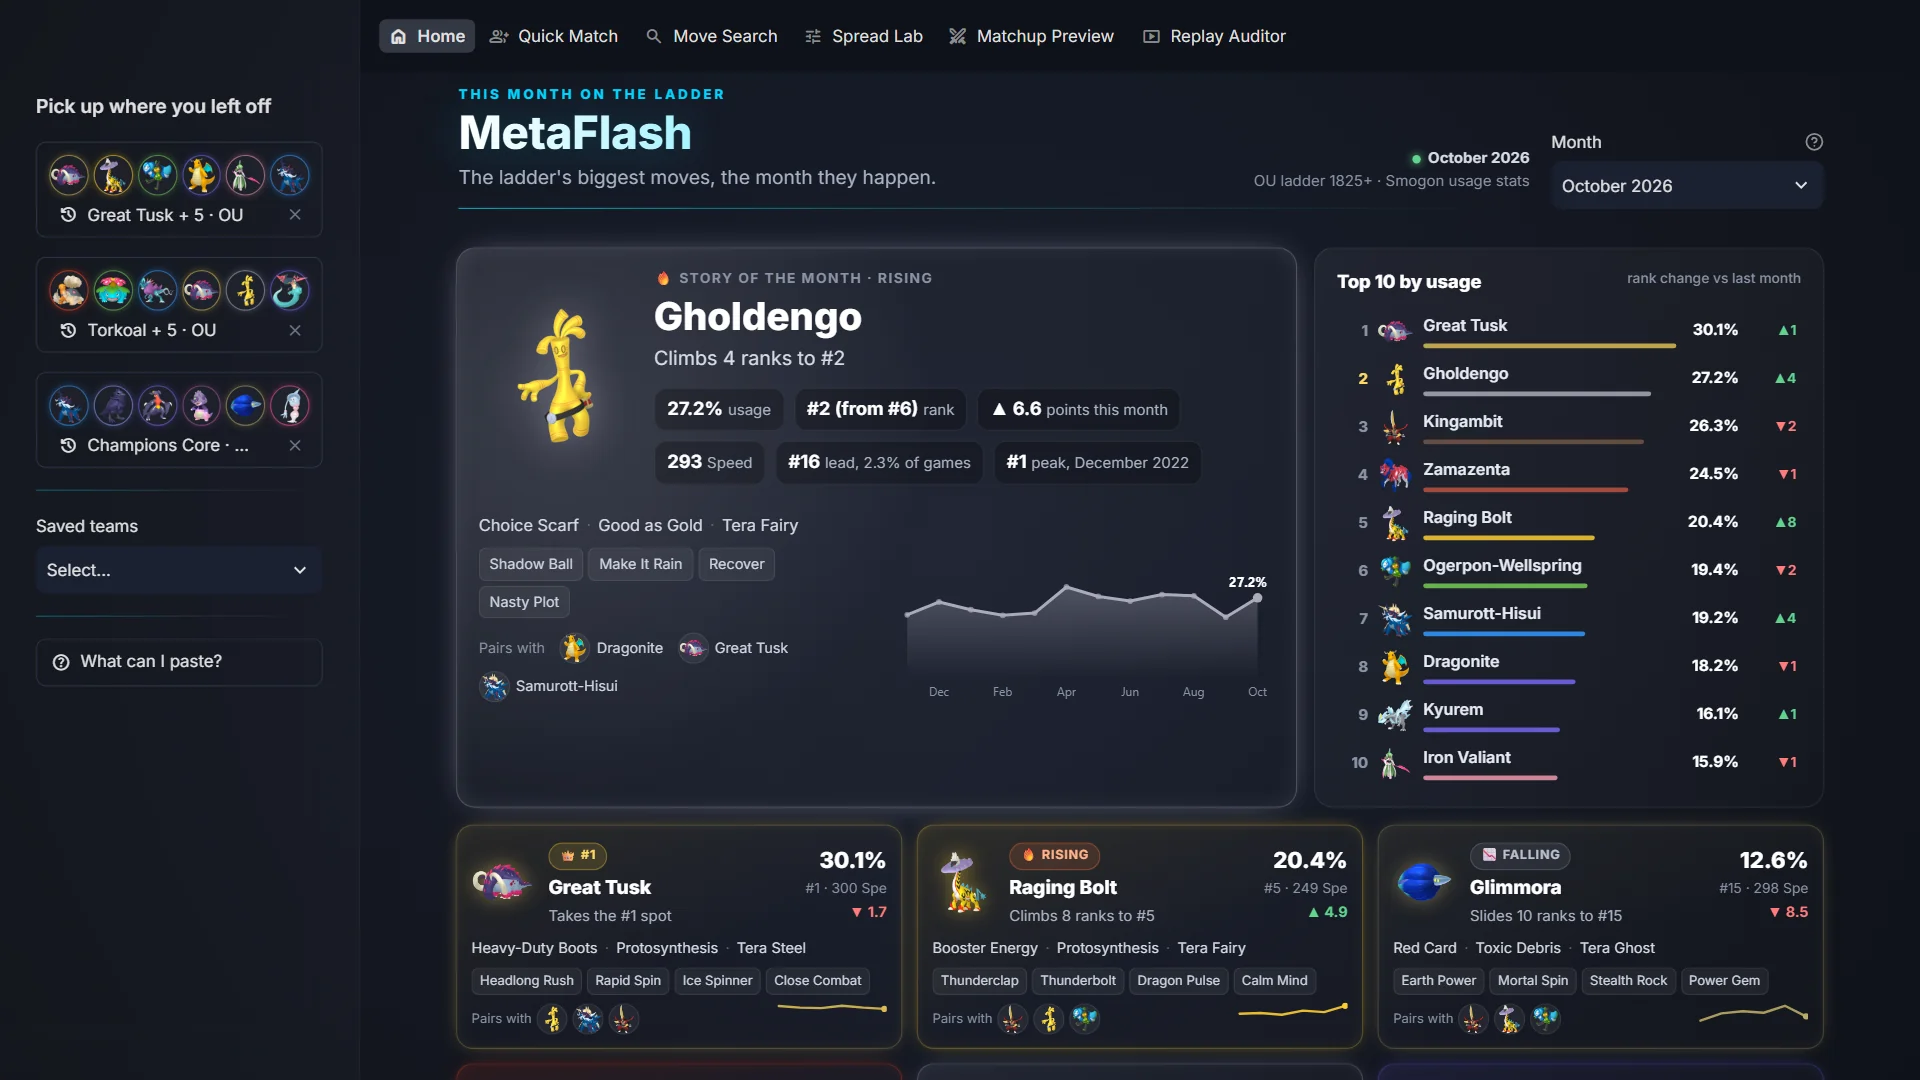
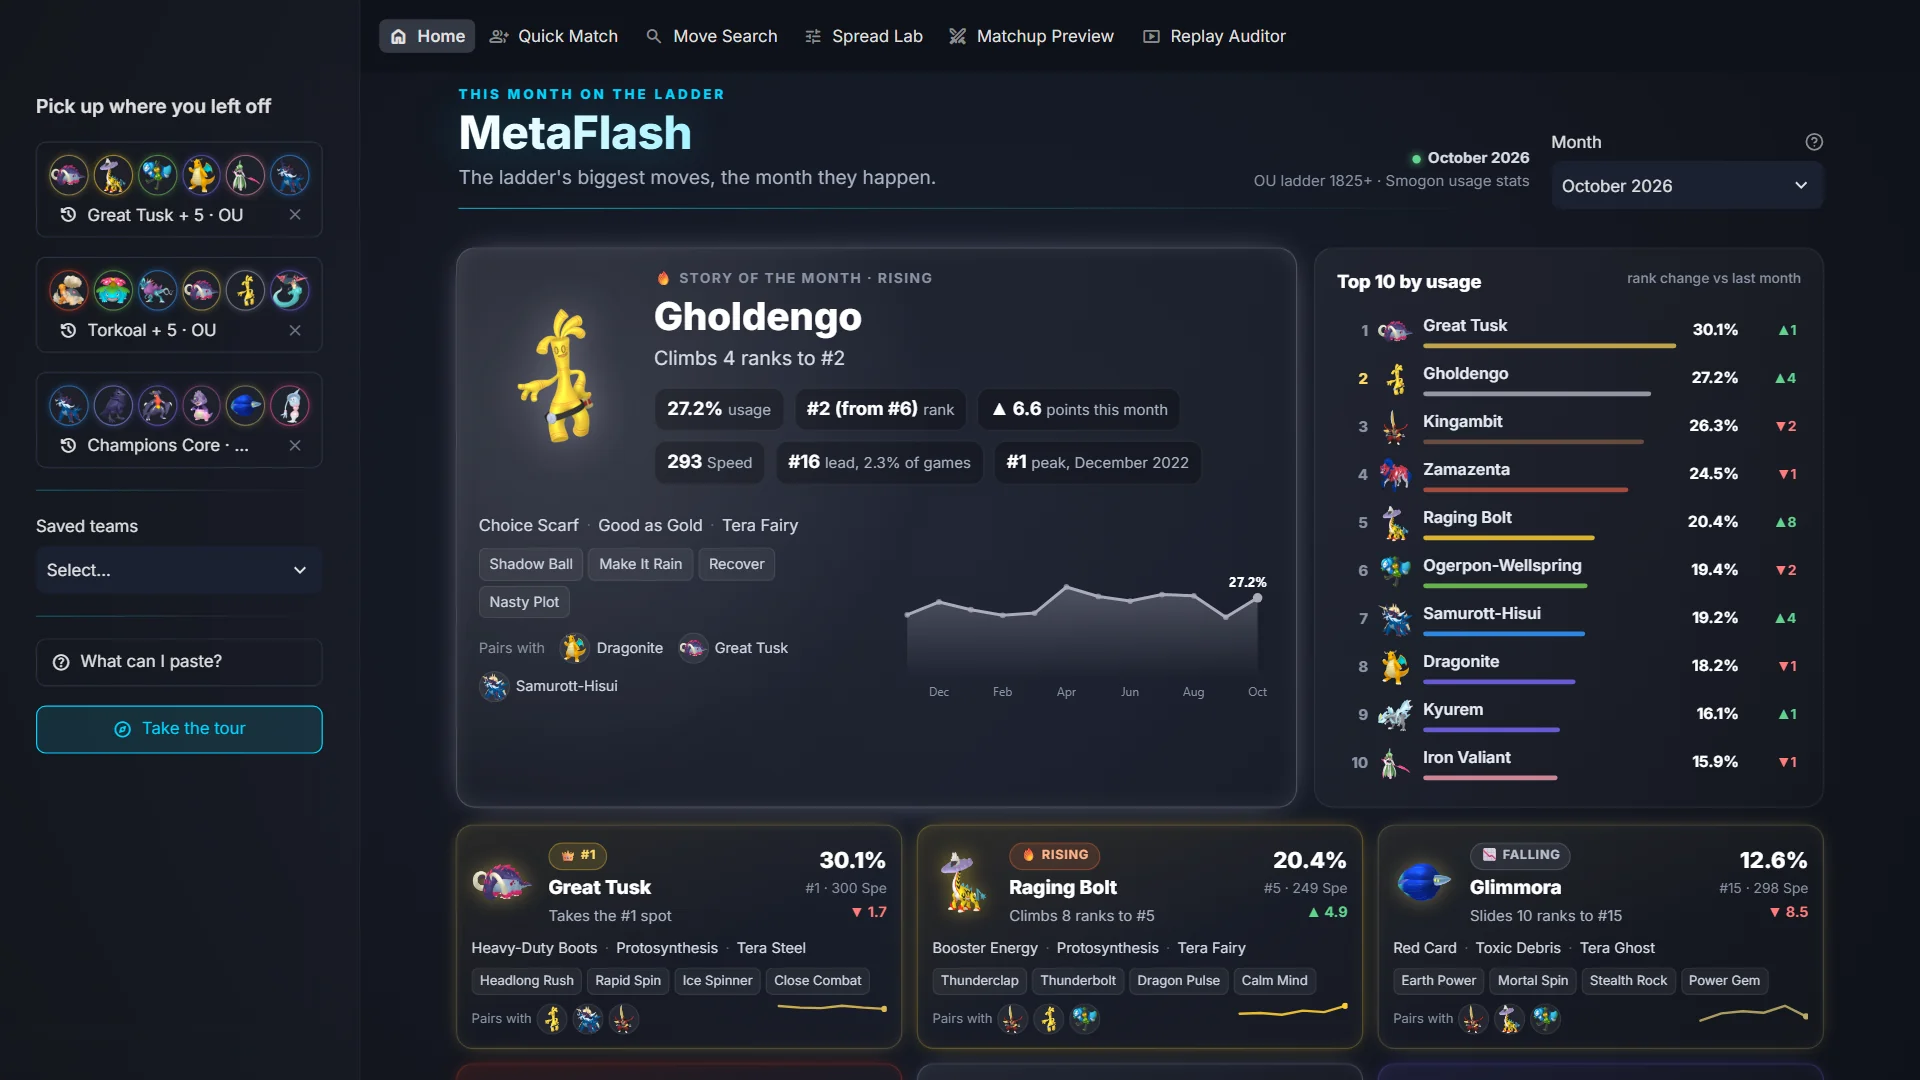
Show the guided tour in the visual tour

Changed region(s): [[0.0, 0.6417, 0.1875, 0.7028]]

diff --git a/scripts/capture_showcase.py b/scripts/capture_showcase.py
@@ -429,7 +429,32 @@ def capture_tools(b):
     page.close()
 
 
+def capture_tour(b):
+    """The guided tour from its first visit offer: the first step on Home, then the Threat Board step."""
+    from metamatch import tour
+    page = new_page(b)
+    wait_home(page)
+    page.get_by_role("button", name="New here? Take the 1 minute tour").click()
+    page.wait_for_selector("text=Step 1 of", timeout=60000)
+    idle(page)
+    page.wait_for_timeout(1500)   # the spotlight scrolls to its target
+    frame(page, "tour_home")
+    board = next(i for i, s in enumerate(tour.STEPS) if s.tab == "Threat Board")
+    for _ in range(board):
+        page.get_by_role("button", name="Next").click()
+        idle(page, timeout=240000)
+    page.wait_for_selector(f"text=Step {board + 1} of", timeout=240000)
+    page.wait_for_selector("table.tb", timeout=240000)
+    page.wait_for_timeout(1500)
+    check(page, "tour")
+    frame(page, "tour_threats")
+    page.get_by_role("button", name="Skip tour").click()
+    idle(page)
+    page.close()
+
+
 def capture_extras(b, user_dir):
+    capture_tour(b)
     # Sidebar memory: recent teams and a saved team's set cards
     page = new_page(b)
     wait_home(page)

diff --git a/showcase/README.md b/showcase/README.md
@@ -20,6 +20,14 @@ A paste box that takes a Showdown export or a PokéPaste link, and a format pick
 
 ![Home screen with the format picker and paste box](images/home.webp)
 
+### Guided tour
+
+First time visitors are offered a one minute tour of the real app. Each step lights up one part of a page and explains it, then moves on by itself: from the paste box and MetaFlash to the team banner, the dashboard tabs and the tools.
+
+![The guided tour's first step, lighting up the paste box](images/tour_home.webp)
+
+![The guided tour on the Threat Board](images/tour_threats.webp)
+
 ### MetaFlash
 
 Smogon usage stats turned into a front page that rewrites itself every month: the story of the month with its usual set and a year of usage, and the top 10 with rank changes. Any month since the format started can be opened as a back issue.

diff --git a/README.md b/README.md
@@ -4,7 +4,6 @@
 
 <h1 align="center">MetaMatch</h1>
 
-[![Tests](https://github.com/NamikazeAsh/MetaMatch/actions/workflows/tests.yml/badge.svg)](https://github.com/NamikazeAsh/MetaMatch/actions/workflows/tests.yml)
 [![MetaBench](<https://img.shields.io/badge/MetaBench-97.5%25%20held%20out-brightgreen>)](#-metabench-the-metamatch-benchmarker)
 [![Python](https://img.shields.io/badge/Python-3.10+-3776AB?logo=python&logoColor=white)](https://www.python.org/)
 [![License: MIT](https://img.shields.io/badge/License-MIT-yellow.svg)](https://opensource.org/licenses/MIT)
